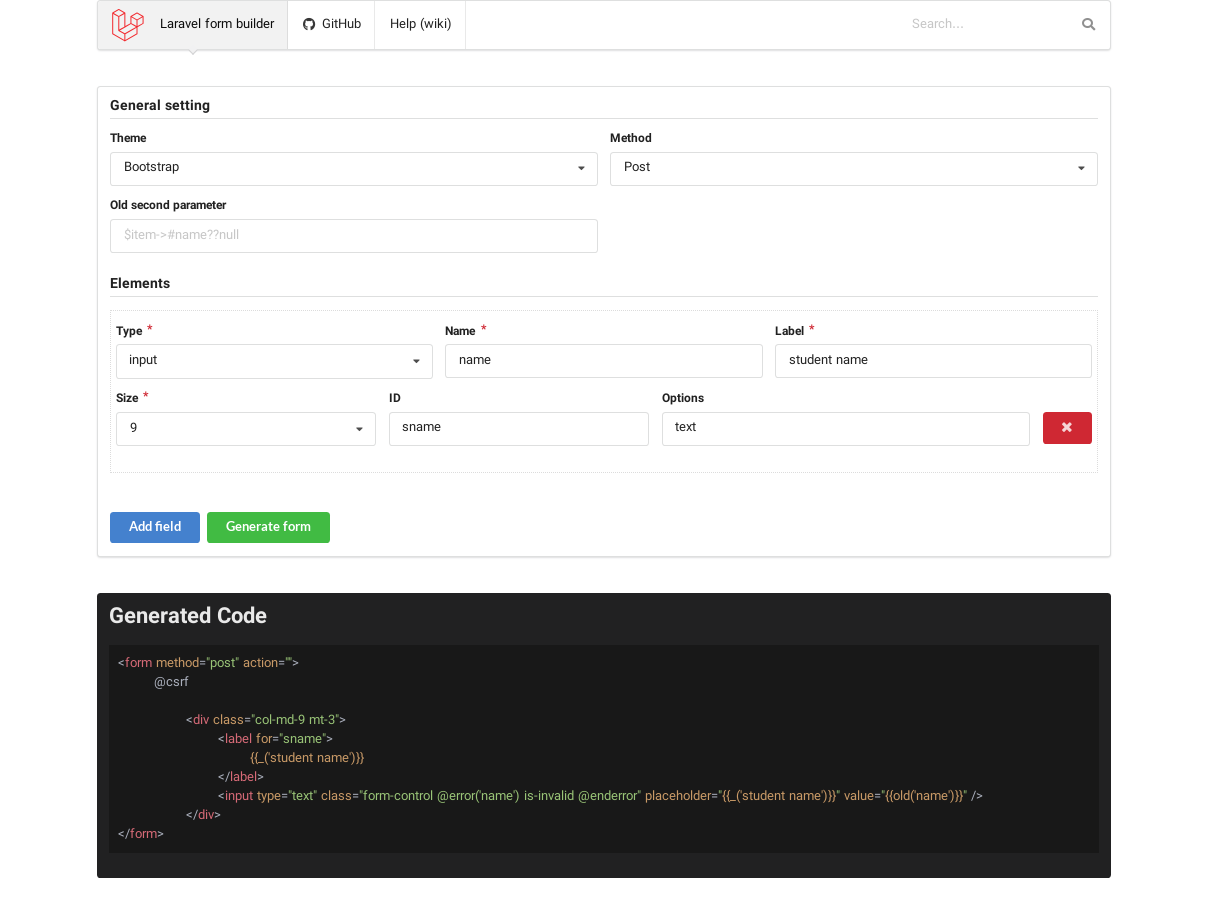
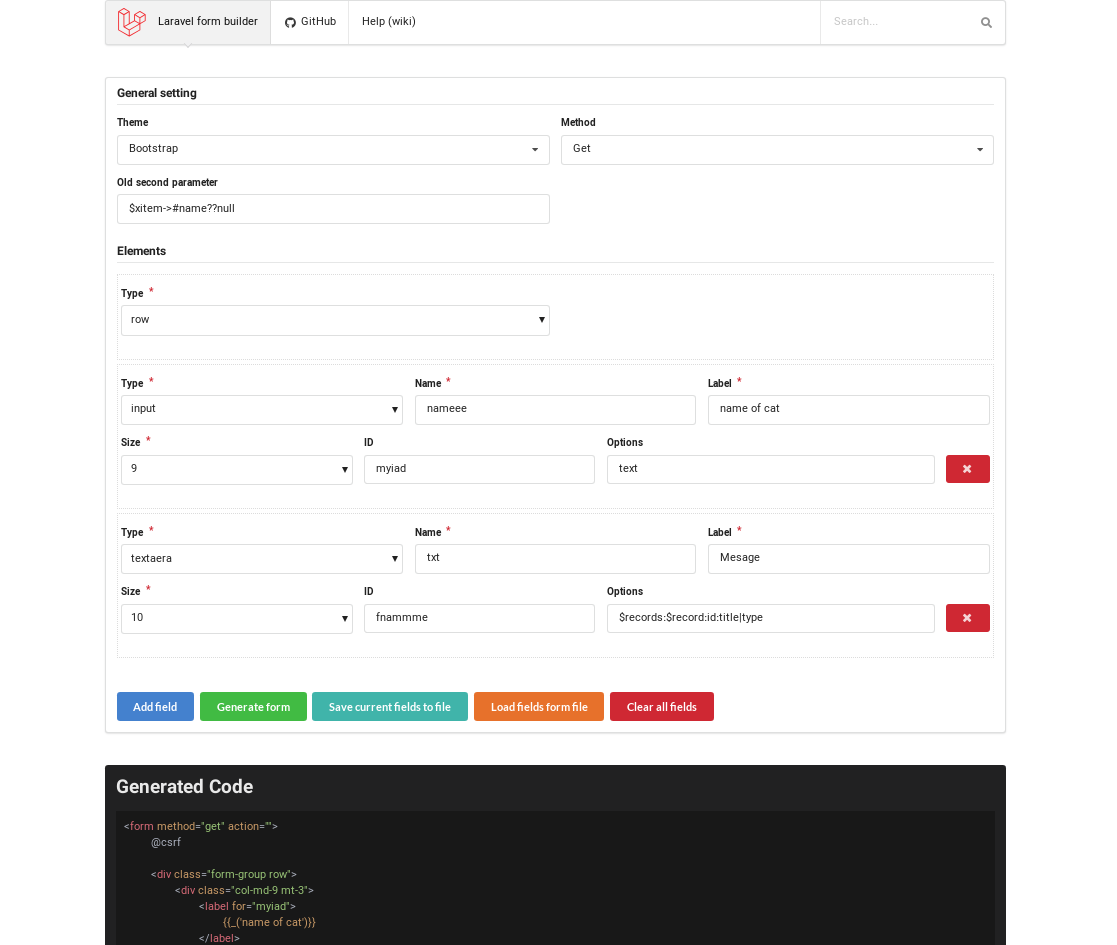
fix translate function bug

diff --git a/assets/js/engine.js b/assets/js/engine.js
@@ -90,7 +90,7 @@ var app = new Vue({
             out += `\t\t <div class="col-md-${field.size} mt-3">\n`;
 
             out += `\t\t\t <label for="${field.id}"> \n`;
-            out += `\t\t\t\t {{_('${field.label}')}} \n`;
+            out += `\t\t\t\t {{__('${field.label}')}} \n`;
             out += `\t\t\t </label> \n`;
 
             out += inp;
@@ -143,7 +143,7 @@ var app = new Vue({
                         } else {
                             var genClass = generalClass;
                         }
-                        var inp = `\t\t\t <input name="${field.name}" type="${field.option}" class="${genClass}" placeholder="{{_('${field.label}')}}" value="{{old('${field.name}'${old})}}" /> \n`;
+                        var inp = `\t\t\t <input name="${field.name}" type="${field.option}" class="${genClass}" placeholder="{{__('${field.label}')}}" value="{{old('${field.name}'${old})}}" /> \n`;
                         out += this.makeLabel(field, inp);
                         break;
                     case 'textaera':
@@ -156,7 +156,7 @@ var app = new Vue({
                         } else {
                             var genClass = generalClass;
                         }
-                        var inp = `\t\t\t <textarea name="${field.name}" class="${genClass}" placeholder="{{_('${field.label}')}}" >{{old('${field.name}'${old})}}</textarea> \n`;
+                        var inp = `\t\t\t <textarea name="${field.name}" class="${genClass}" placeholder="{{__('${field.label}')}}" >{{old('${field.name}'${old})}}</textarea> \n`;
                         out += this.makeLabel(field, inp);
                         break;
                     case 'select':
@@ -196,7 +196,7 @@ var app = new Vue({
 
                         out += `\t\t\t <label> &nbsp; </label> \n`;
                         var genClass = 'btn btn-primary mt-2';
-                        out += `\t\t\t <input name="${field.name}" type="submit" class="${genClass}" value="{{_('${field.label}')}}" /> \n`;
+                        out += `\t\t\t <input name="${field.name}" type="submit" class="${genClass}" value="{{__('${field.label}')}}" /> \n`;
                         out += `\t\t </div>\n`;
                         break;
                 }
@@ -240,6 +240,9 @@ var app = new Vue({
         }, loadJson: function () {
             init();
             $("#json-file").click();
+        }, clearAll: function () {
+            this.flds = [];
+            this.old = '';
         }
     }
 });

diff --git a/index.html b/index.html
@@ -142,6 +142,10 @@
                     Load fields form file
                 </div>
 
+                <div class="ui button red" @click="clearAll">
+                    Clear all fields
+                </div>
+
                 <input type="file" style="display: none" id="json-file"/>
 
             </div>

diff --git a/README.md b/README.md
@@ -4,7 +4,7 @@ The laravel form builder code generator
 ## how to use it
 It's so easy, Let's go (O_x) 
 
-![Alt text](laravel-form-bulider-code-screen-shot.png?raw=true "Title")
+![Scrren shot](laravel-form-bulider-code-screen-shot.png?raw=true "Scrrenshot")
 
 
 
